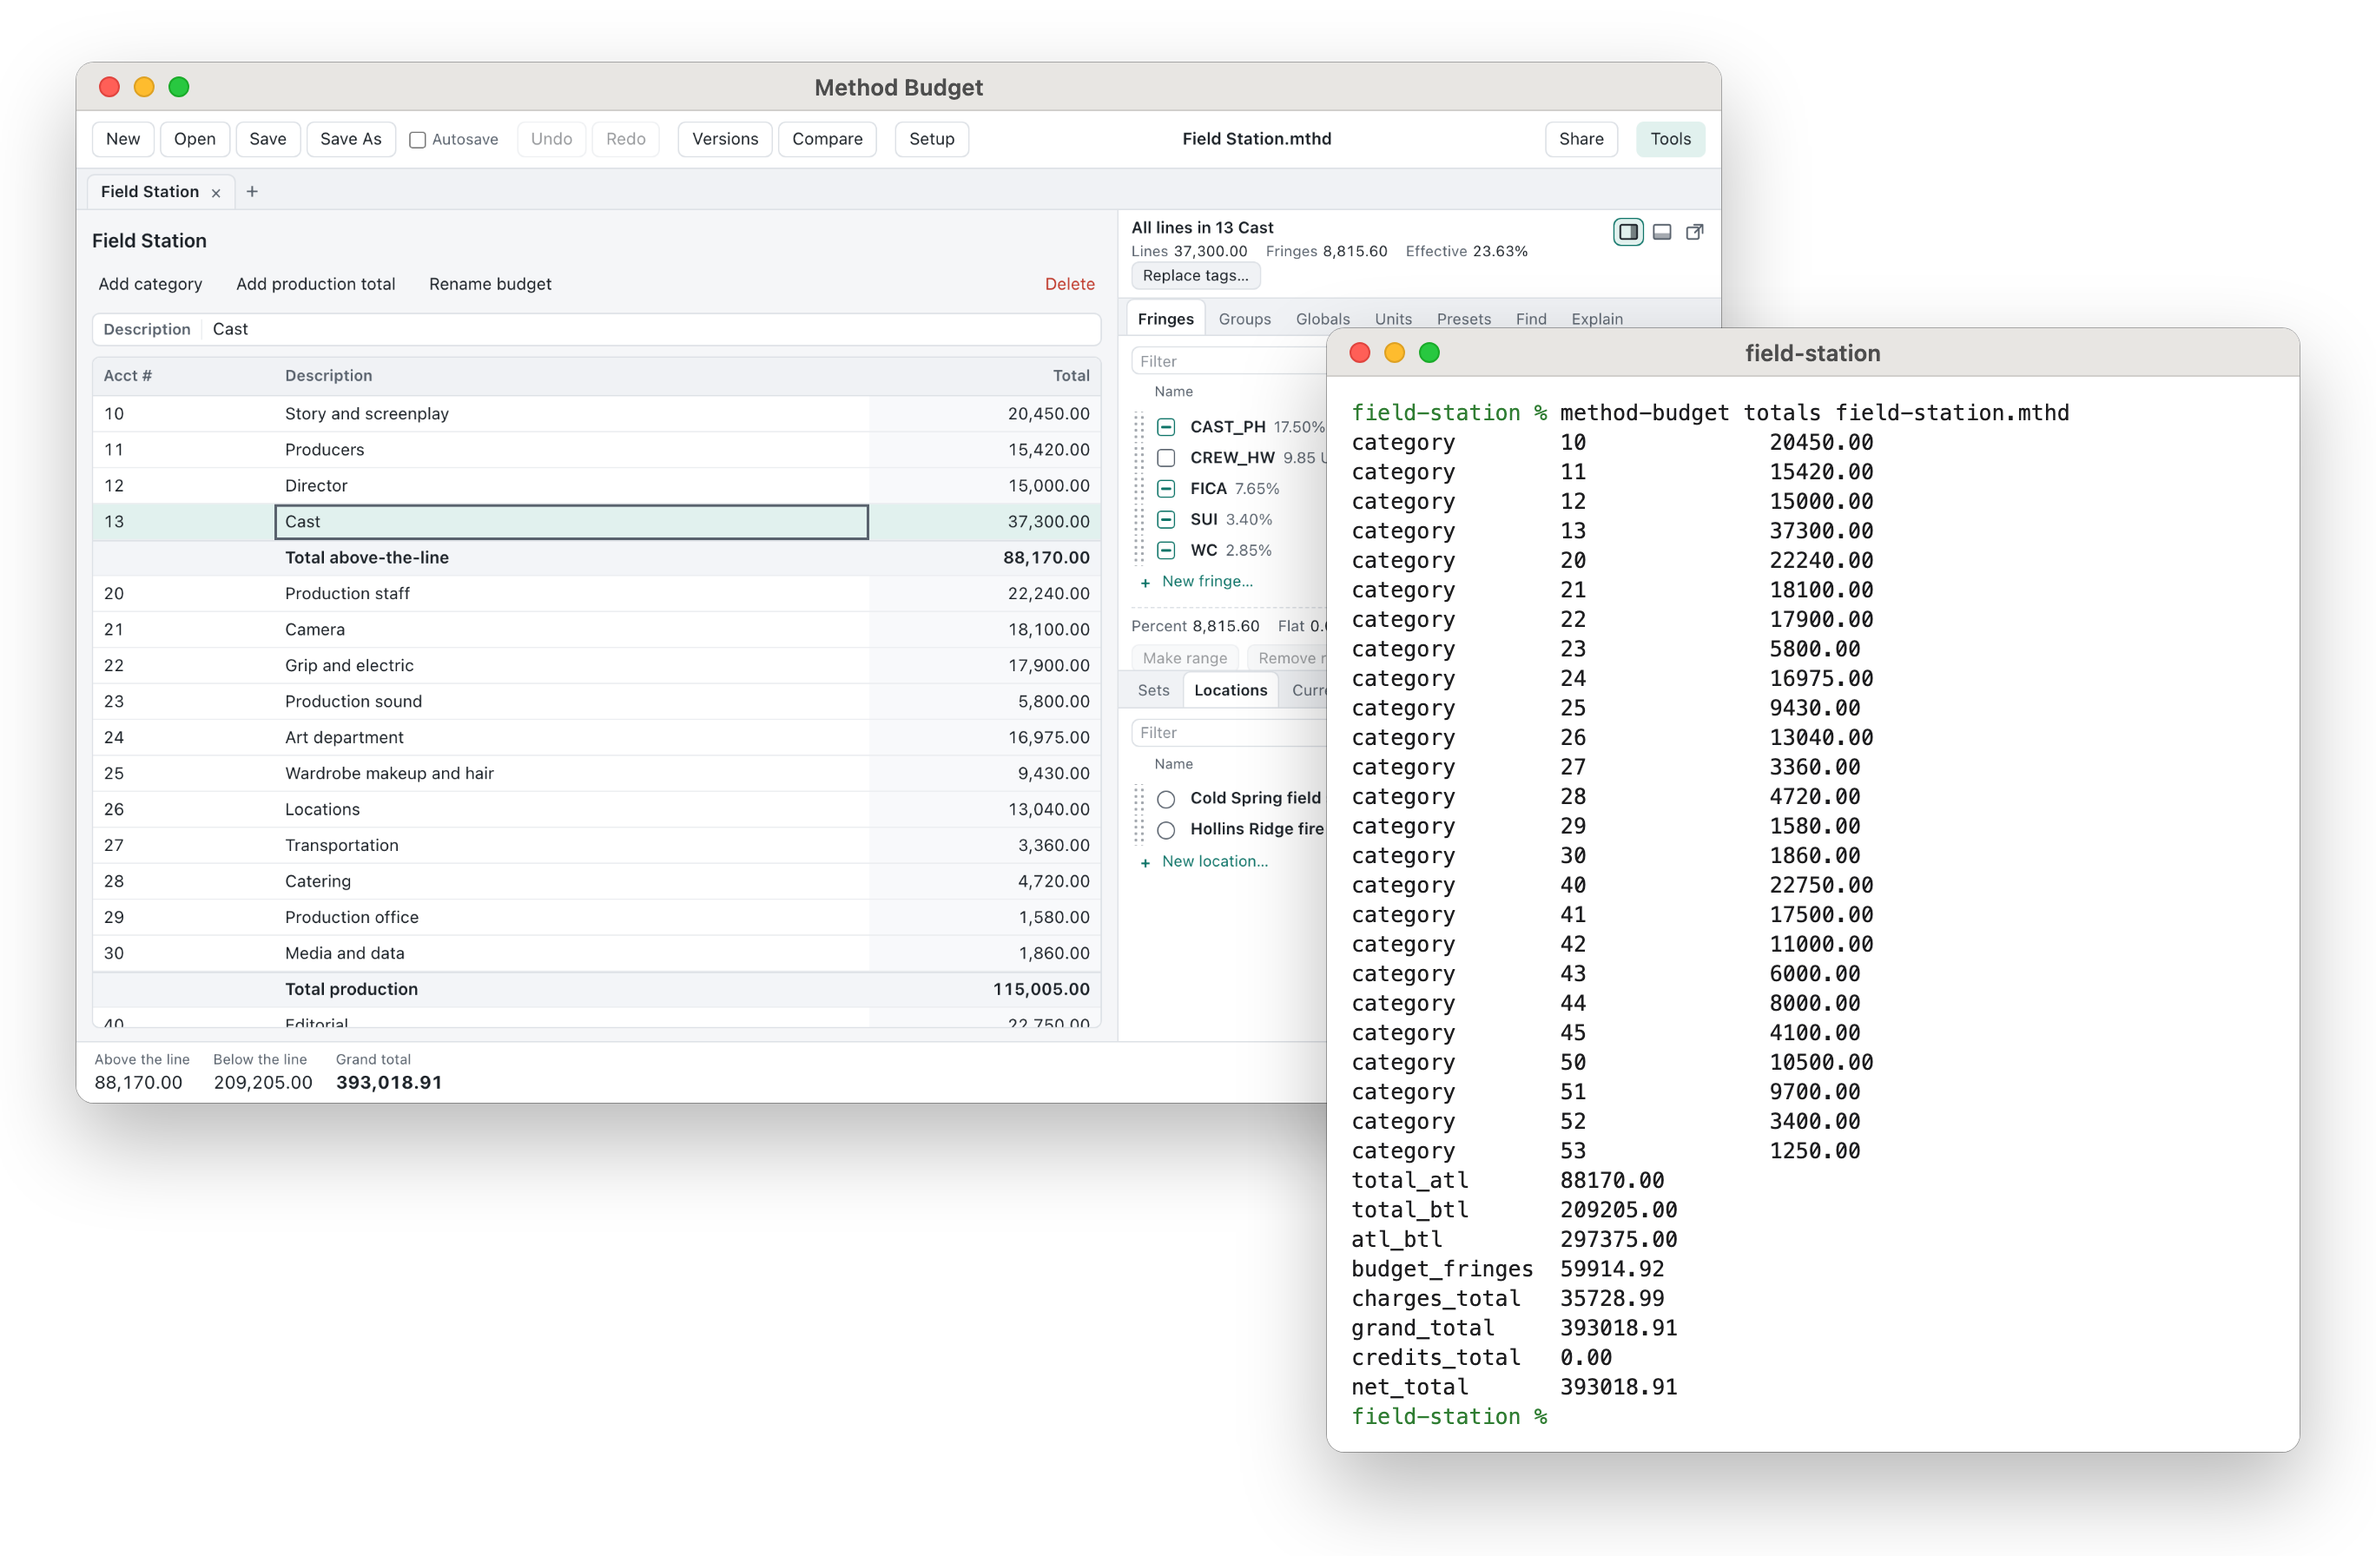
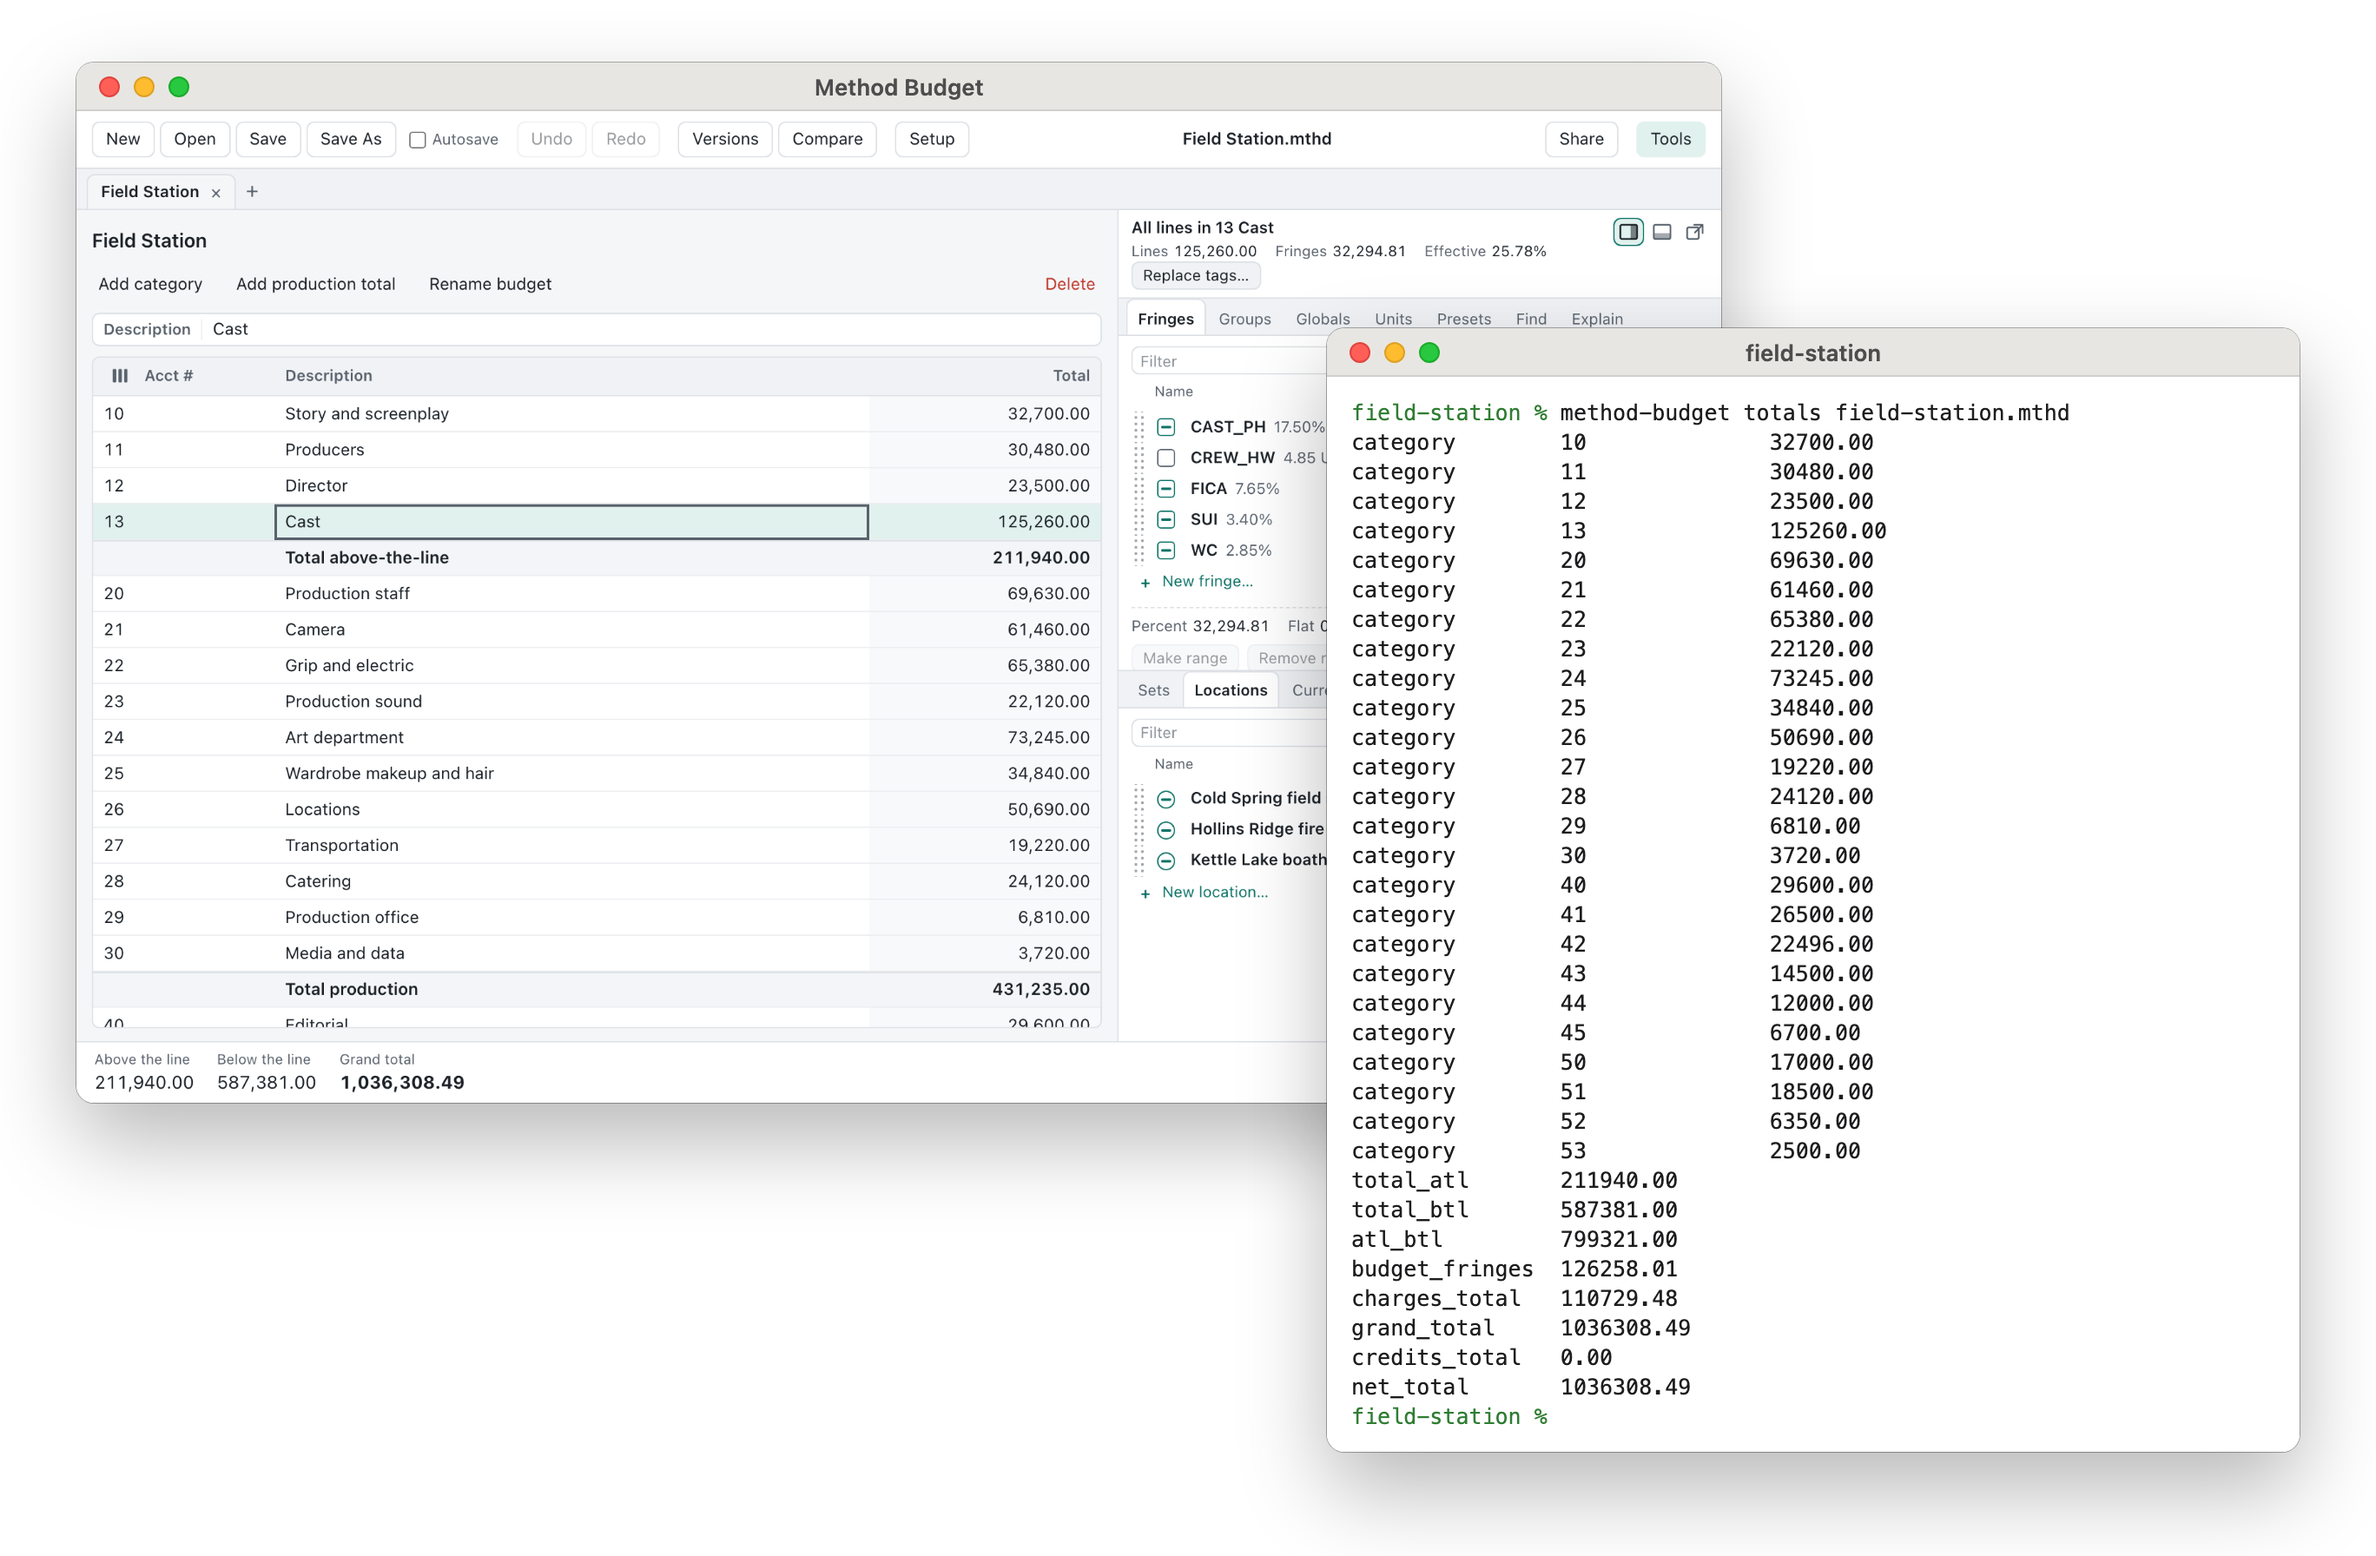
Pictures retaken from the million-dollar Field Station
capture-screens waits for the new grand total and DELACROIX's fringes,
answers sample_at_launch with nothing (the budget is opened already), and
hides the Orig, Var and cost report columns the sample's original totals
and actuals would add, so the topsheet shows its own totals. The README
and site alt text and caption follow the new figures.

diff --git a/site/index.html b/site/index.html
@@ -151,16 +151,16 @@
           <a href="img/hero-light.png">
             <picture>
               <source srcset="img/hero-dark.png" media="(prefers-color-scheme: dark)">
-              <img src="img/hero-light.png" width="1368" height="896" loading="lazy" decoding="async" alt="The topsheet of Field Station, an invented four-day independent feature: category numbers, names and totals, a grand total of 393,018.91, and the tools panel showing the fringes on the Cast category and the budget's two locations.">
+              <img src="img/hero-light.png" width="1368" height="896" loading="lazy" decoding="async" alt="The topsheet of Field Station, an invented eighteen-day independent feature of about a million dollars: category numbers, names and totals, a grand total of 1,036,308.49, and the tools panel showing the fringes on the Cast category and the budget's three locations.">
             </picture>
           </a>
-          <figcaption><strong>Field Station's topsheet.</strong> A four-day independent feature, every figure invented, with the tools panel showing the fringes on the Cast category and where the budget is spent by location.</figcaption>
+          <figcaption><strong>Field Station's topsheet.</strong> An eighteen-day independent feature of about a million dollars, every figure invented, with the tools panel showing the fringes on the Cast category and where the budget is spent by location.</figcaption>
         </figure>
         <figure class="snap framed">
           <a href="img/explain-light.png">
             <picture>
               <source srcset="img/explain-dark.png" media="(prefers-color-scheme: dark)">
-              <img src="img/explain-light.png" width="1368" height="896" loading="lazy" decoding="async" alt="Explain this number on the fringes of one cast line, DELACROIX, 4 days at 2,400: each fringe with its rate and cutoff, the state unemployment fringe stopping at its 7,000.00 cutoff and coming to 238.00.">
+              <img src="img/explain-light.png" width="1368" height="896" loading="lazy" decoding="async" alt="Explain this number on the fringes of one cast line, DELACROIX, 18 days at 1,650: each fringe with its rate and cutoff, the state unemployment fringe stopping at its 7,000.00 cutoff and coming to 238.00.">
             </picture>
           </a>
           <figcaption><strong>Explain this number.</strong> One cast line's fringes traced step by step: each rate, each cutoff, and the one that stops at its cutoff.</figcaption>
@@ -169,7 +169,7 @@
           <a href="img/import-light.png">
             <picture>
               <source srcset="img/import-dark.png" media="(prefers-color-scheme: dark)">
-              <img src="img/import-light.png" width="1368" height="896" loading="lazy" decoding="async" alt="Import Spreadsheet reviewing an invented camera department rental list: the import options, the eight lines as they will import, and the check that every line comes to the sheet's own total of 5,310.00.">
+              <img src="img/import-light.png" width="1368" height="896" loading="lazy" decoding="async" alt="Import Spreadsheet reviewing an invented camera department rental list: the import options, the eight lines as they will import, and the check that every line comes to the sheet's own total of 22,250.00.">
             </picture>
           </a>
           <figcaption><strong>Import a department's spreadsheet.</strong> The camera department's rental list, every line checked against the sheet's own total before anything changes.</figcaption>
@@ -178,7 +178,7 @@
           <a href="img/file-light.png">
             <picture>
               <source srcset="img/file-dark.png" media="(prefers-color-scheme: dark)">
-              <img src="img/file-light.png" width="1368" height="896" loading="lazy" decoding="async" alt="The budget is a file you own: the app beside a terminal running the method-budget totals command on field-station.mthd, printing each category's total and the grand total of 393018.91.">
+              <img src="img/file-light.png" width="1368" height="896" loading="lazy" decoding="async" alt="The budget is a file you own: the app beside a terminal running the method-budget totals command on field-station.mthd, printing each category's total and the grand total of 1036308.49.">
             </picture>
           </a>
           <figcaption><strong>A file you own.</strong> The same budget from the command line: its totals, read straight from the file.</figcaption>

diff --git a/README.md b/README.md
@@ -27,25 +27,25 @@ is a file you own.
 <p align="center">
   <picture>
     <source media="(prefers-color-scheme: dark)" srcset="assets/screens/hero-dark.png">
-    <img src="assets/screens/hero-light.png" width="92%" alt="The topsheet of Field Station, an invented four-day independent feature: category numbers, names and totals, a grand total of 393,018.91, and the tools panel showing the fringes on the Cast category and the budget's two locations.">
+    <img src="assets/screens/hero-light.png" width="92%" alt="The topsheet of Field Station, an invented eighteen-day independent feature of about a million dollars: category numbers, names and totals, a grand total of 1,036,308.49, and the tools panel showing the fringes on the Cast category and the budget's three locations.">
   </picture>
 </p>
 <p align="center">
   <picture>
     <source media="(prefers-color-scheme: dark)" srcset="assets/screens/explain-dark.png">
-    <img src="assets/screens/explain-light.png" width="92%" alt="Explain this number on the fringes of one cast line, DELACROIX, 4 days at 2,400: each fringe with its rate and cutoff, the state unemployment fringe stopping at its 7,000.00 cutoff and coming to 238.00.">
+    <img src="assets/screens/explain-light.png" width="92%" alt="Explain this number on the fringes of one cast line, DELACROIX, 18 days at 1,650: each fringe with its rate and cutoff, the state unemployment fringe stopping at its 7,000.00 cutoff and coming to 238.00.">
   </picture>
 </p>
 <p align="center">
   <picture>
     <source media="(prefers-color-scheme: dark)" srcset="assets/screens/import-dark.png">
-    <img src="assets/screens/import-light.png" width="92%" alt="Import Spreadsheet reviewing an invented camera department rental list: the import options, the eight lines as they will import, and the check that every line comes to the sheet's own total of 5,310.00.">
+    <img src="assets/screens/import-light.png" width="92%" alt="Import Spreadsheet reviewing an invented camera department rental list: the import options, the eight lines as they will import, and the check that every line comes to the sheet's own total of 22,250.00.">
   </picture>
 </p>
 <p align="center">
   <picture>
     <source media="(prefers-color-scheme: dark)" srcset="assets/screens/file-dark.png">
-    <img src="assets/screens/file-light.png" width="92%" alt="The budget is a file you own: the app beside a terminal running the method-budget totals command on field-station.mthd, printing each category's total and the grand total of 393018.91.">
+    <img src="assets/screens/file-light.png" width="92%" alt="The budget is a file you own: the app beside a terminal running the method-budget totals command on field-station.mthd, printing each category's total and the grand total of 1036308.49.">
   </picture>
 </p>
 <p align="center"><sub>Field Station is an invented production: its title, its people and every figure are made up.</sub></p>
